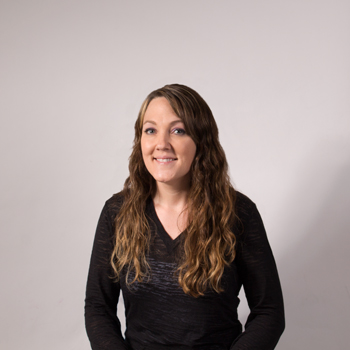
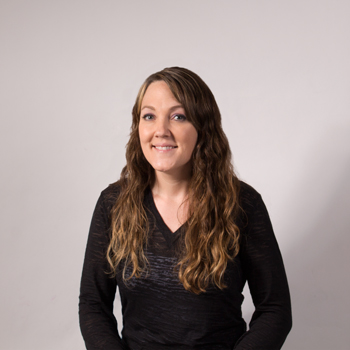
Headshot
Fixed headshot and bugs

Changed region(s): [[0.2, 0.1714, 0.8571, 1.0], [0.6571, 0.8, 0.7429, 0.9714]]

diff --git a/css/main.css b/css/main.css
@@ -415,9 +415,7 @@ footer ul {
     width: 100%;
     height: auto;
     padding-top: 100%;
-/*    background-color: orange;
-*/  background: url(../img/headshot-medium.jpg) center no-repeat;
-    border: 7px solid white;
+	border: 7px solid white;
 }
 
 /* ====================== Utility =======================*/
@@ -637,7 +635,12 @@ footer {
 	
 	/* ======================= Media =======================*/
 
-		
+	.about-img {
+		background: url(../img/headshot-small.jpg) center no-repeat;
+		-webkit-background: url(../img/headshot-small.jpg) center no-repeat;
+		-moz-background: url(../img/headshot-small.jpg) center no-repeat;
+		-o-background: url(../img/headshot-small.jpg) center no-repeat;
+	}		
 	
 	}
 	
@@ -734,14 +737,21 @@ footer {
 	
 	/* ======================= Media =======================*/
 	
-	.hover span {
-	display: block;
-	font-size: 1.2rem;
-    text-transform: uppercase;
-    letter-spacing: .2rem;
+	.about-img {
+		background: url(../img/headshot-medium.jpg) center no-repeat;
+		-webkit-background: url(../img/headshot-medium.jpg) center no-repeat;
+		-moz-background: url(../img/headshot-medium.jpg) center no-repeat;
+		-o-background: url(../img/headshot-medium.jpg) center no-repeat;
 	}
 	
-	.hover div:hover > h2 {
+	.hover span {
+		display: block;
+		font-size: 1.2rem;
+		text-transform: uppercase;
+		letter-spacing: .2rem;
+	}
+	
+	.hover div:hover > h2, .hover div:active > h2 {
 		display:block;
 	}
 	
@@ -750,31 +760,20 @@ footer {
 		width: 100%;
 	}
 
-	/* HOVER STATES FOR CONTENT */
 
-	.hoverParent {
-	  	position: relative;
-	  	float:left;
+}
+
+/* ====================== MEDIUM SCREEN & Landscape 1023 ======================*/
+
+@media only screen and (min-width: 40em) and (orientation: landscape) { 
+
+	.about-img {
+		background: url(../img/headshot-medium.jpg) center no-repeat;
+		-webkit-background: url(../img/headshot-medium.jpg) center no-repeat;
+		-moz-background: url(../img/headshot-medium.jpg) center no-repeat;
+		-o-background: url(../img/headshot-medium.jpg) center no-repeat;
 	}
 	
-	.hoverContent {
-	  	display: none;
-	}
-	
-	.hoverParent:hover .hoverContent {
-	  	background-color: rgba(254,212,2,0.85);
-	  	text-align: center;
-	  	color: white;
-	  	width: 100%;
-	  	height: 100%;
-	  	position: absolute;
-	  	top: 0;
-	  	left: 0;
-		display: flex;
-		align-items: center;
-		justify-content: center;
-	}
-
 }
 
 /* ====================== Large and up ======================= */
@@ -783,5 +782,13 @@ footer {
 	#hero, .toggle-image {
  		height: 556px;
 	}
+	
+	.about-img {
+		background: url(../img/headshot-large.jpg) center no-repeat;
+		-webkit-background: url(../img/headshot-large.jpg) center no-repeat;
+		-moz-background: url(../img/headshot-large.jpg) center no-repeat;
+		-o-background: url(../img/headshot-large.jpg) center no-repeat;
+	}
+
 		
 }
